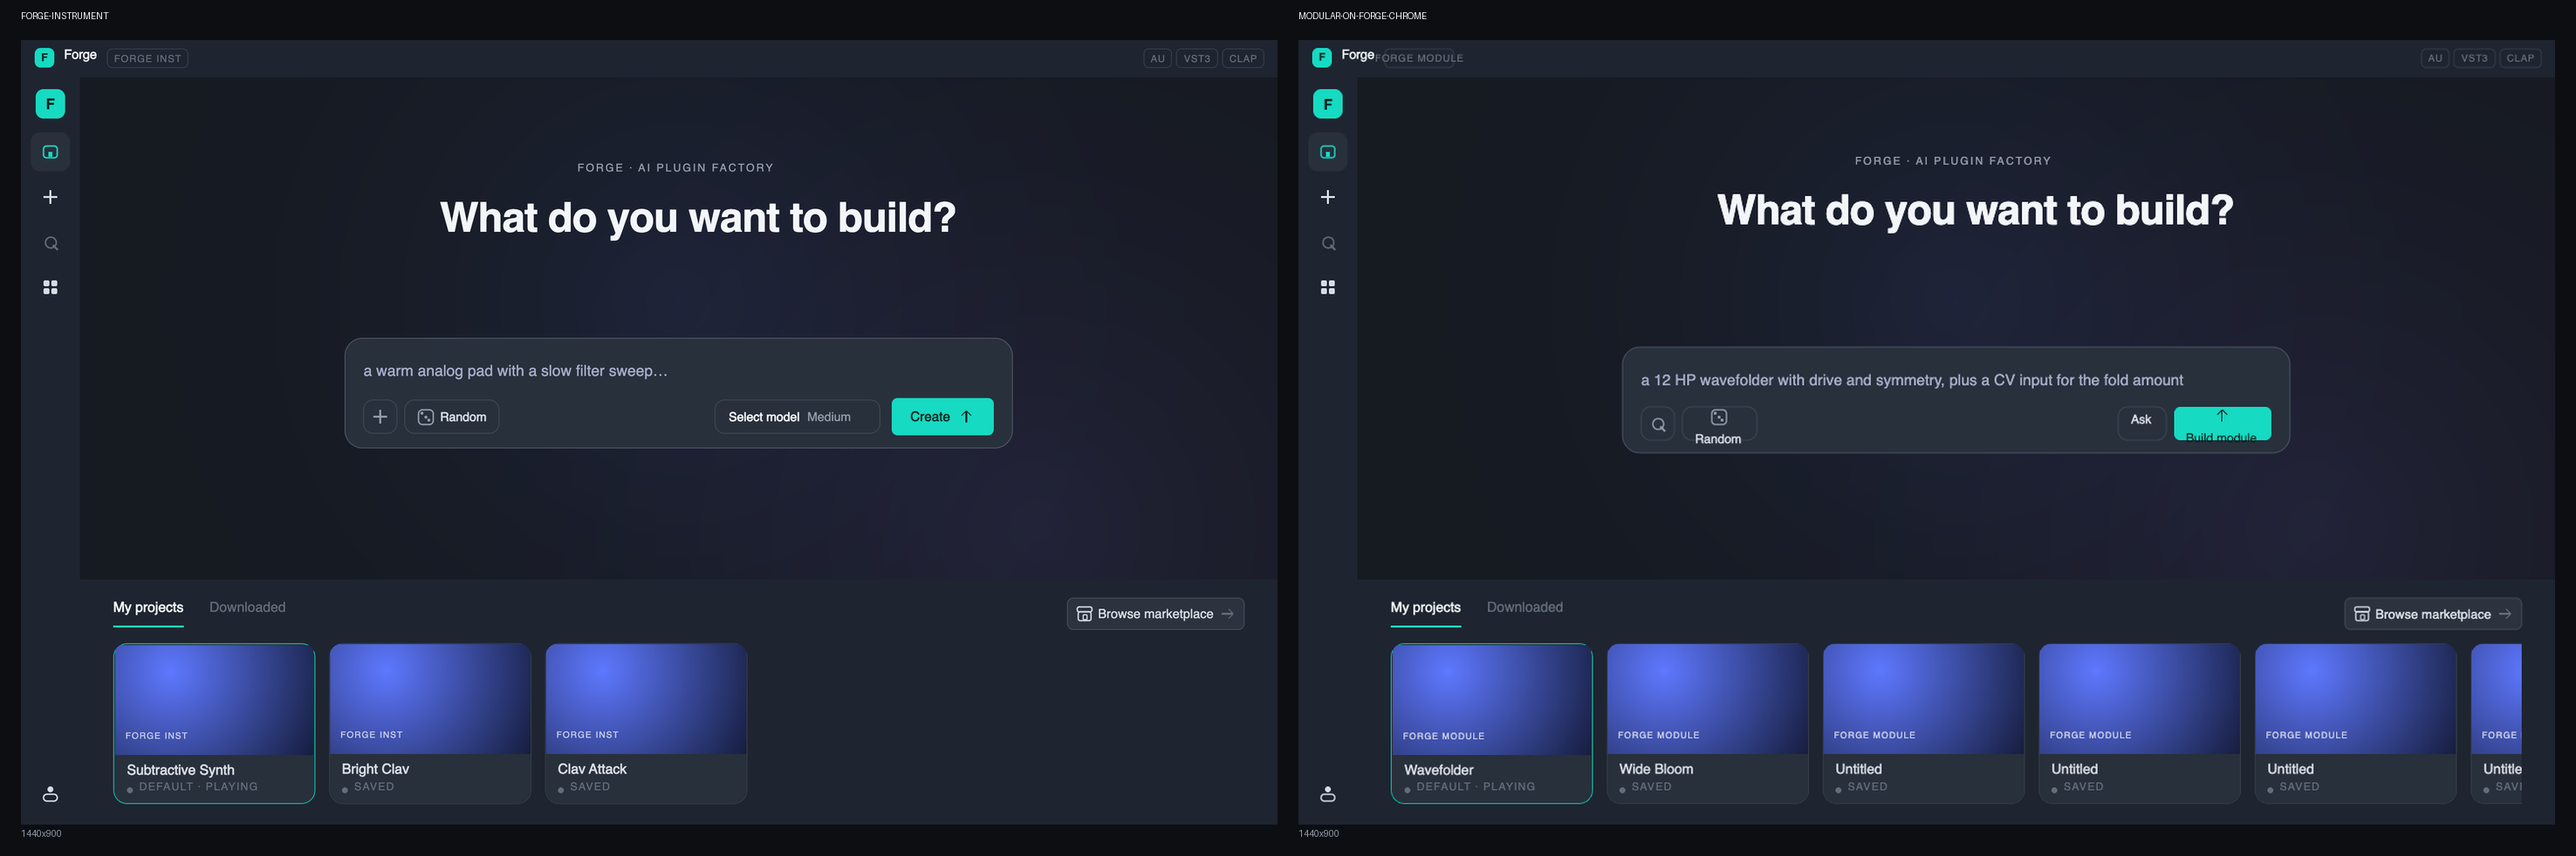
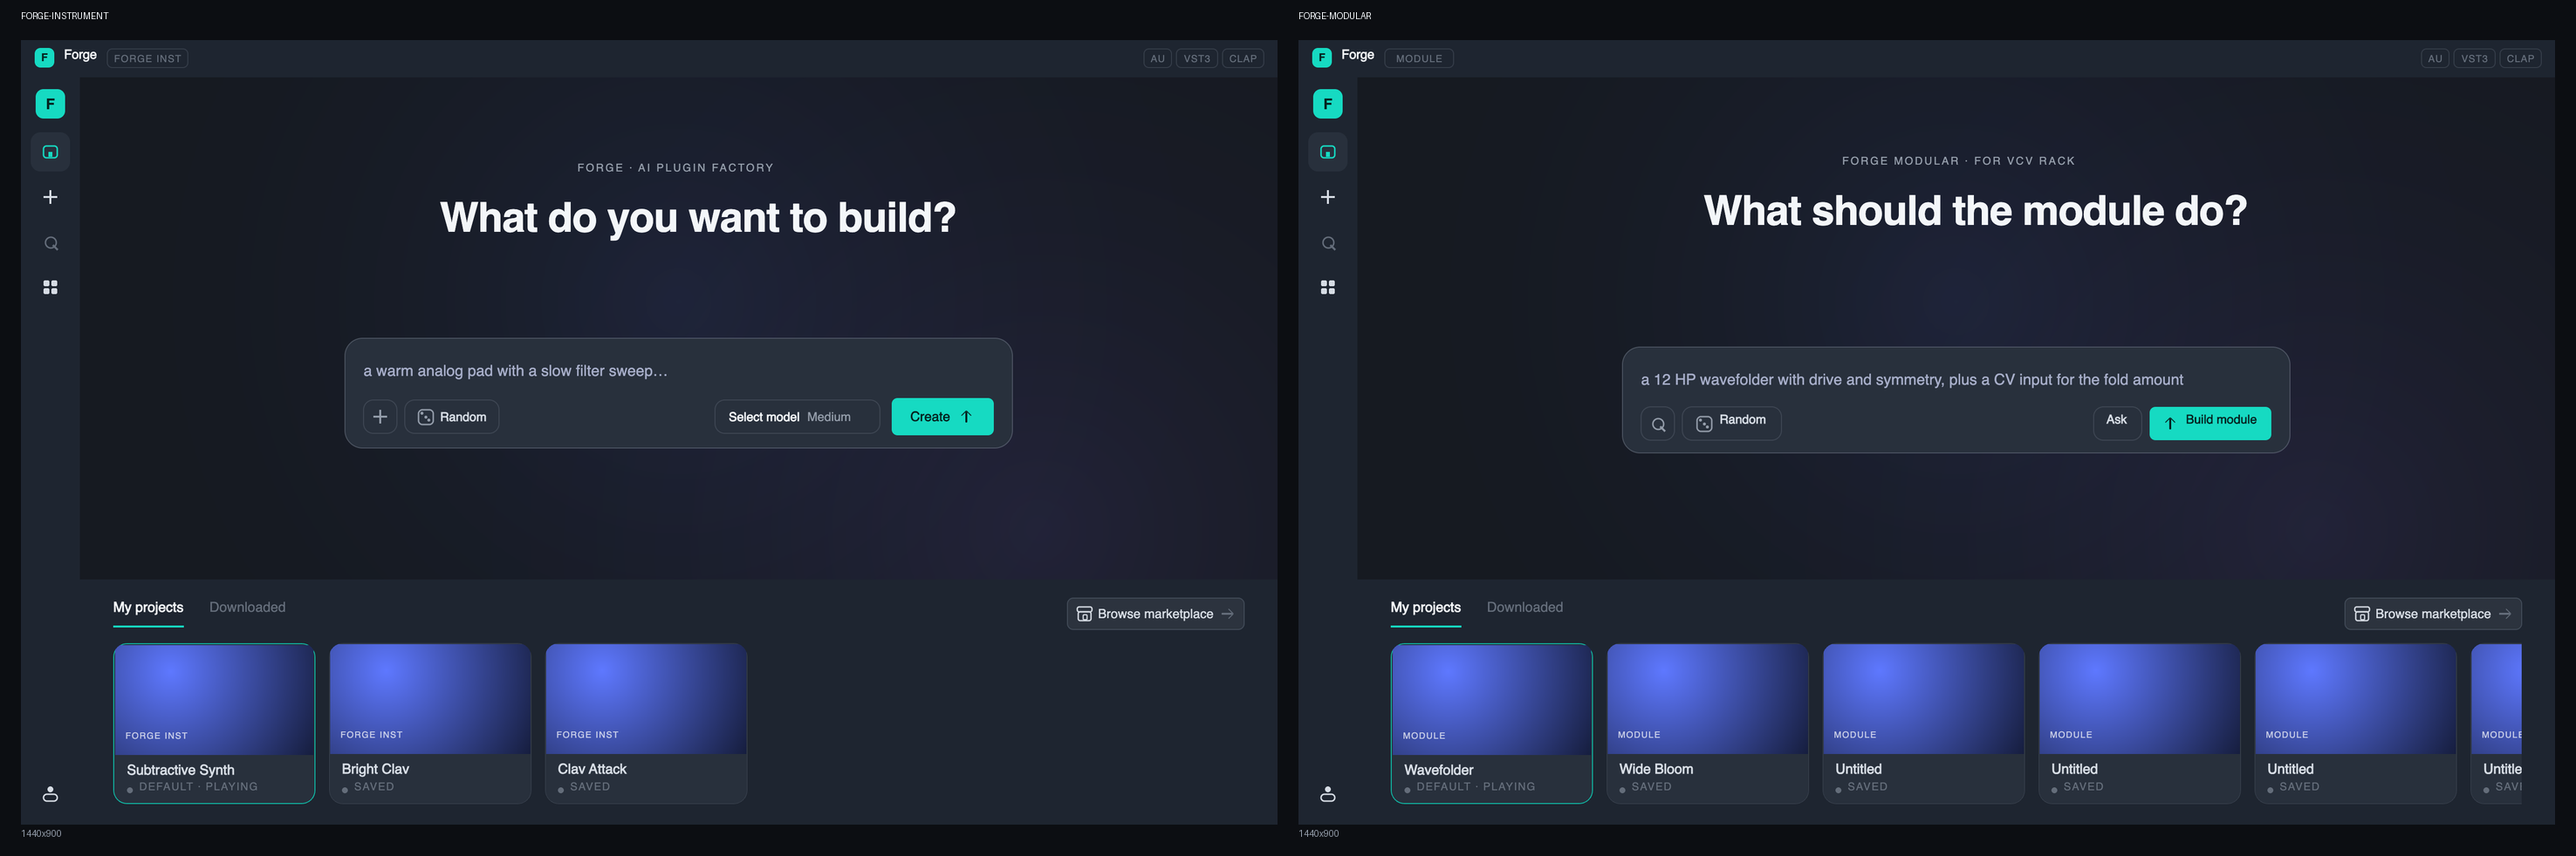
Phase 2 complete: Forge Modular is Forge's chrome with its own words
The badge no longer collides with the product name -- "FORGE MODULE" was
two characters wider than the title bar allows, so it is "MODULE" and
"PATCH", which also says which artifact is selected. The hero's eyebrow and
title joined ChromeCopy, since they are product copy for the same reason
the placeholder is: "FORGE MODULAR · FOR VCV RACK" and "What should the
module do?" now come from the shell rather than being hard-coded in the
layout.

Labelled composer buttons also needed direction = row. FlexStyle defaults
to column, so "Random" wrapped under its die -- the same default that had
already cost thirteen silent no-ops on the JS side, except here the render
showed it immediately.

7.2/255 against Forge Instrument, and what remains is the wording, the
badge and the card labels -- the product differing, not the brand. The
three existing products stay byte-identical at 35 assertions.

Verified windowed as well as screenshotted this time. --screenshot sets
headless=true and is not the same path, which is how a crash reached a
human that every green check here had missed.

diff --git a/forge-seam/modular/modular_shell.cpp b/forge-seam/modular/modular_shell.cpp
@@ -64,8 +64,7 @@ void ForgeModularShell::set_artifact(Artifact a) { artifact_ = a; }
 forge::ChromeCopy ForgeModularShell::chrome_copy() const {
     const bool patch = artifact_ == Artifact::patch;
     return {
-        .badge = std::string(forge::brand::kProductNameUpper) +
-                 (patch ? " PATCH" : " MODULE"),
+        .badge = patch ? "PATCH" : "MODULE",
         .prompt_placeholder =
             patch ? "an ambient generative drone that never repeats"
                   : "a 12 HP wavefolder with drive and symmetry, plus a CV input "
@@ -73,6 +72,10 @@ forge::ChromeCopy ForgeModularShell::chrome_copy() const {
         .followup_placeholder =
             patch ? "refine it \xE2\x80\x94 e.g. give the drone a slower filter sweep"
                   : "refine it \xE2\x80\x94 e.g. add a second CV input for symmetry",
+        .hero_eyebrow = std::string(forge::brand::kProductNameUpper) +
+                        " MODULAR \u00b7 FOR VCV RACK",
+        .hero_title = patch ? "What should the patch do?"
+                            : "What should the module do?",
         .default_build_title = patch ? "Ambient Drone" : "Wavefolder",
     };
 }
